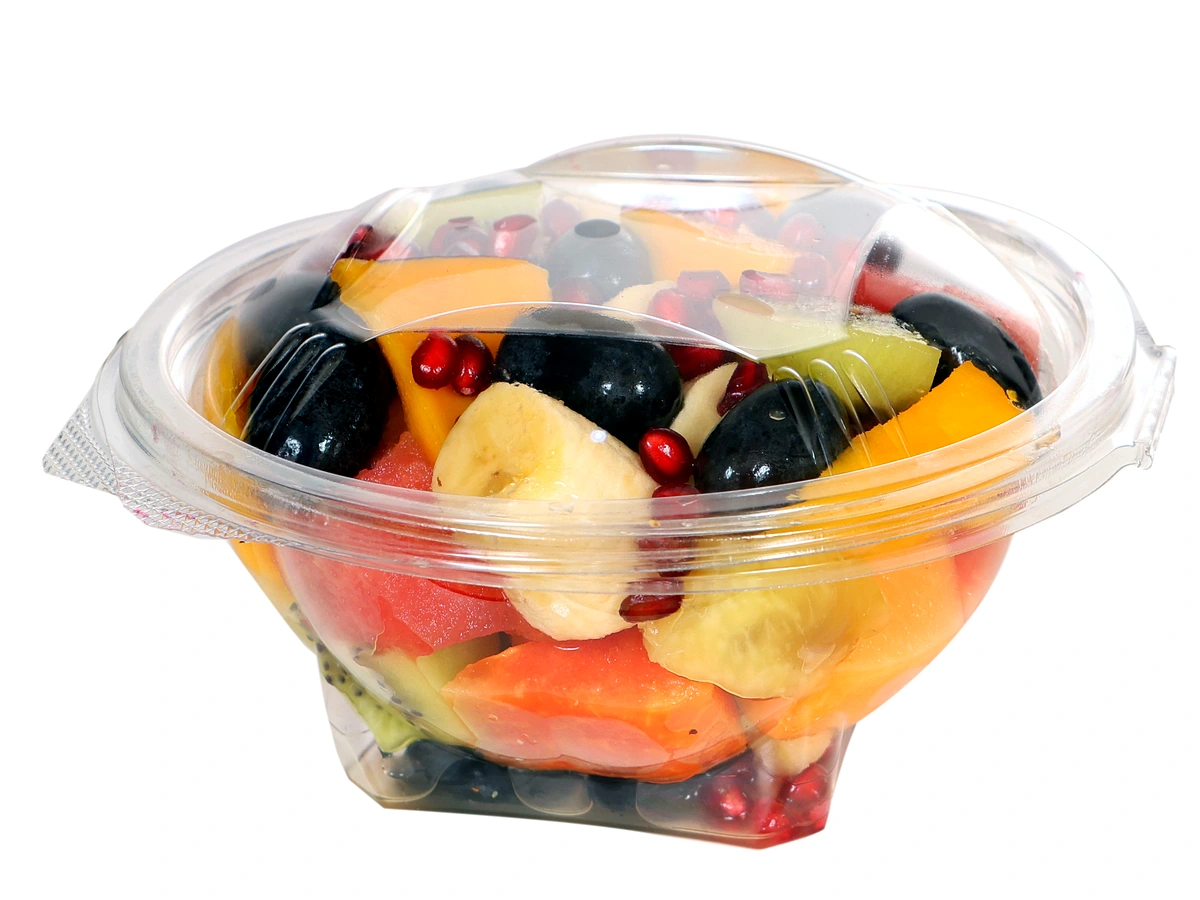
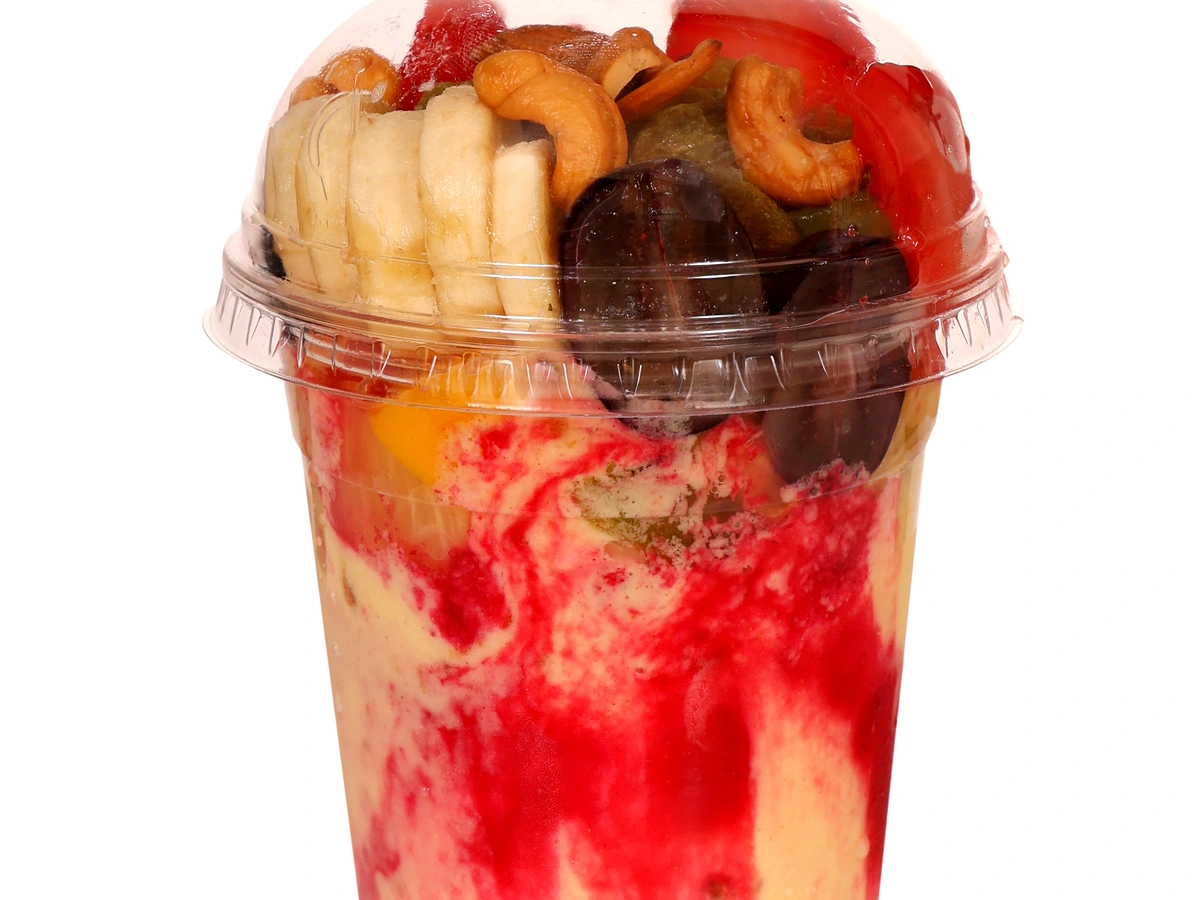
Highlight works link and improve case study image

diff --git a/index.html b/index.html
@@ -192,6 +192,15 @@
         .links a:hover {
             color: var(--orange)
         }
+        .links a.works-link {
+            color: var(--orange);
+            font-weight: 800
+        }
+        .links a.works-link::after {
+            content: "↗";
+            margin-left: 4px;
+            font-size: 12px
+        }
         .navcta,
         .btn {
             display: inline-flex;
@@ -1388,7 +1397,7 @@
     <div class="announce" data-i18n="announce.free7">🎉 Every website comes with a 7-day free trial — you only pay if you love it.</div>
     <header class="wrap"><nav>
             <a class="logo" href="#">ARH<b>.</b></a>
-            <div class="links"><a href="#services" data-i18n="nav.services">Services</a><a href="works.html" data-i18n="nav.works">Our works</a><a href="#work" data-i18n="nav.work">Work</a><a href="#pricing" data-i18n="nav.pricing">Pricing</a><a href="#blog" data-i18n="nav.blog">Blog</a><a href="#faq" data-i18n="nav.faq">FAQ</a><a href="#contact" data-i18n="nav.contact">Contact</a></div>
+            <div class="links"><a href="#services" data-i18n="nav.services">Services</a><a class="works-link" href="works.html" data-i18n="nav.works">OUR WORKS</a><a href="#work" data-i18n="nav.work">Work</a><a href="#pricing" data-i18n="nav.pricing">Pricing</a><a href="#blog" data-i18n="nav.blog">Blog</a><a href="#faq" data-i18n="nav.faq">FAQ</a><a href="#contact" data-i18n="nav.contact">Contact</a></div>
             <div style="display:flex;align-items:center;gap:14px">
                 <button class="theme-toggle" id="langToggle" aria-label="Toggle language" style="font-size:13px;font-weight:800">AR</button>
                 <button class="theme-toggle" id="themeToggle" aria-label="Toggle theme">🌙</button>
@@ -1400,7 +1409,7 @@
     <div class="mobile-nav" id="mobileNav">
         <button class="mnav-close" id="mnavClose" aria-label="Close menu">✕</button>
         <a href="#services" data-i18n="nav.services">Services</a>
-        <a href="works.html" data-i18n="nav.works">Our works</a>
+        <a href="works.html" data-i18n="nav.works">OUR WORKS ↗</a>
         <a href="#work" data-i18n="nav.work">Work</a>
         <a href="#pricing" data-i18n="nav.pricing">Pricing</a>
         <a href="#blog" data-i18n="nav.blog">Blog</a>
